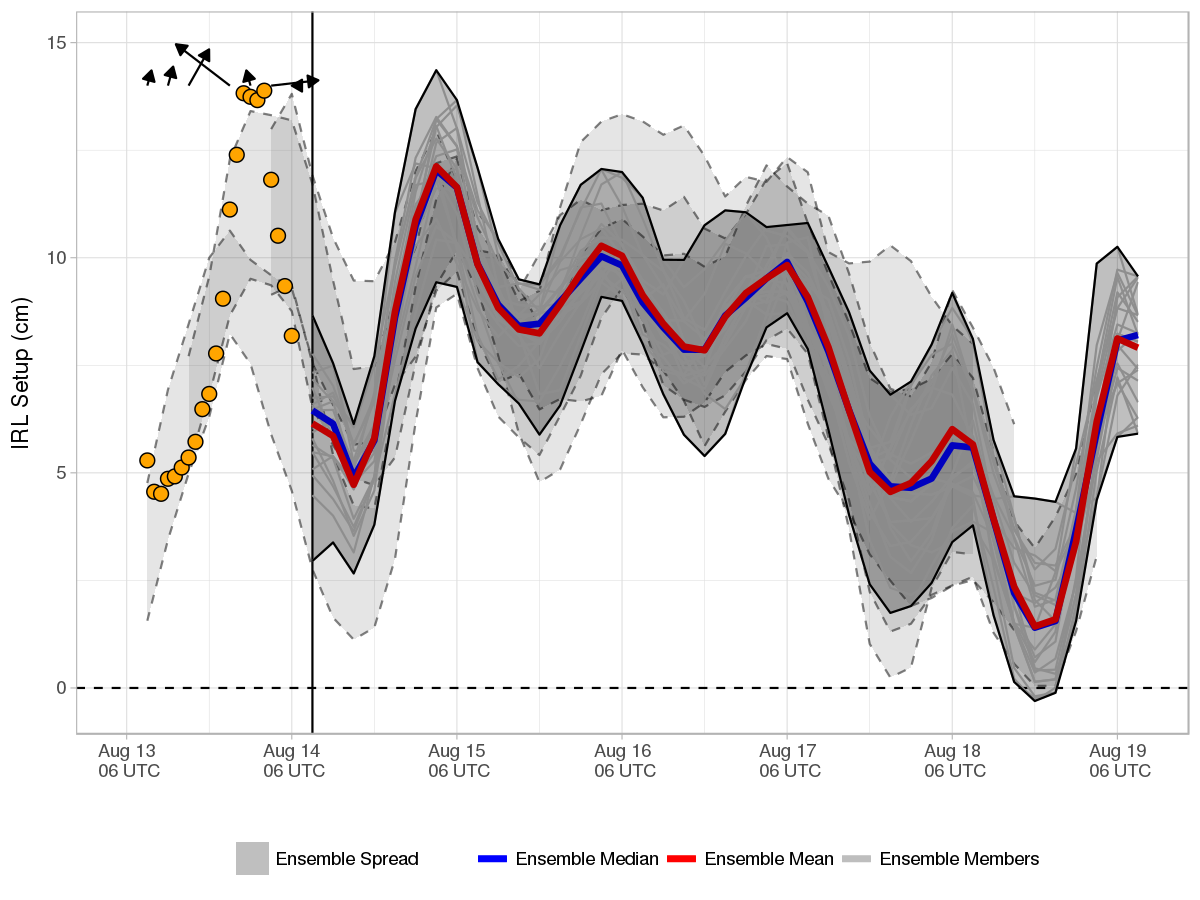
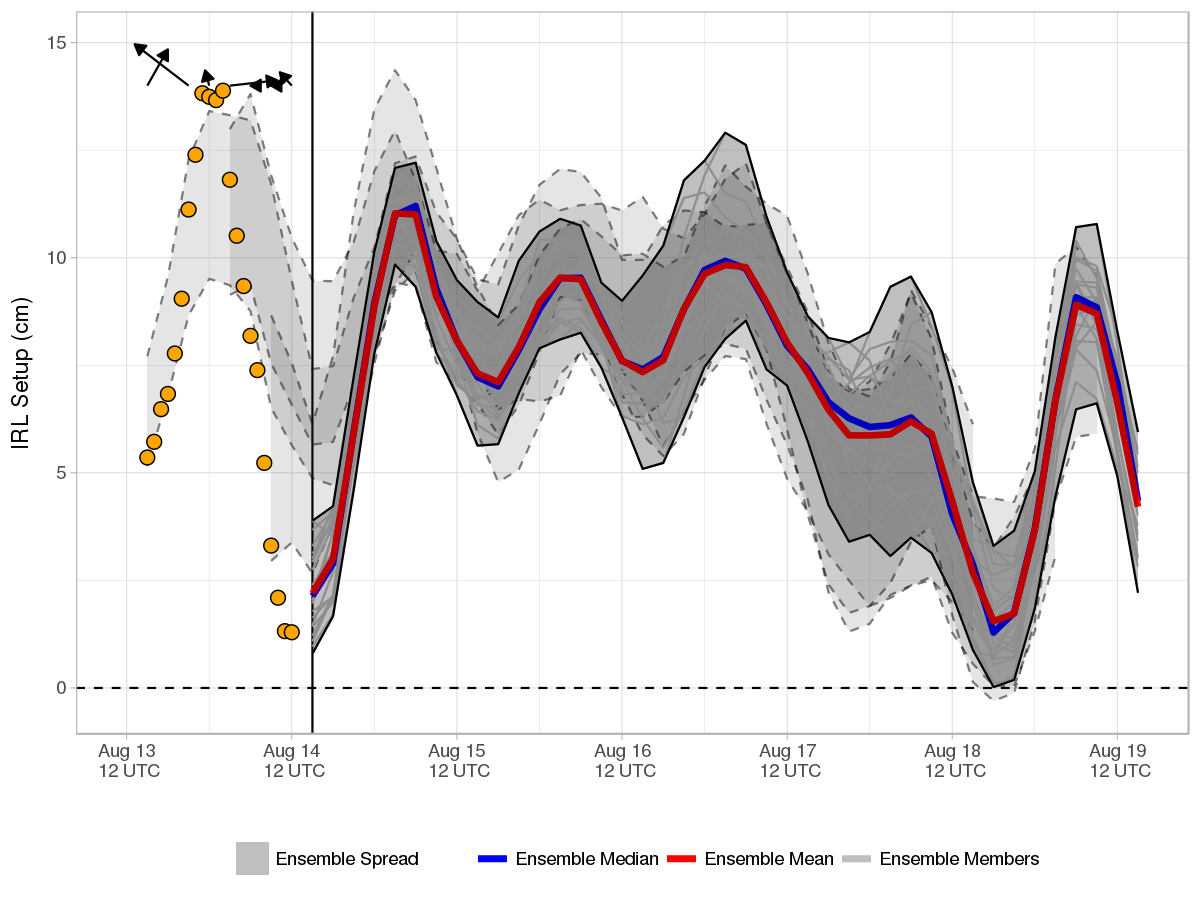
Forecast Update

diff --git a/docs/index.md b/docs/index.md
@@ -1,9 +1,9 @@
-Current Forecast 2018-08-14, Cycle 00UTC
+Current Forecast 2018-08-14, Cycle 06UTC
 ----------------------------------------
 
 [![](img/raw_setup.png)](https://fit-winds.github.io/IRLSetup/img/raw_setup.png)
 
-> Forecast valid 2018-08-14 02:30:55.
+> Forecast valid 2018-08-14 08:27:47.
 
 Explanation
 -----------
@@ -17,7 +17,7 @@ star), and Sebastian, FL (white star). In general, southerly (northerly)
 winds result in increased water elevation near Titusville (Sebastian)
 and positive (negative) setup.
 
-The current cycle 2018-08-14 00UTC 0.5° [Global Ensemble Forecast System
+The current cycle 2018-08-14 06UTC 0.5° [Global Ensemble Forecast System
 (GEFS)](https://www.ncdc.noaa.gov/data-access/model-data/model-datasets/global-ensemble-forecast-system-gefs)
 mean and median forecasts of setup are represented by the red and blue
 curves, respectively. Ensemble spread from the current and three
